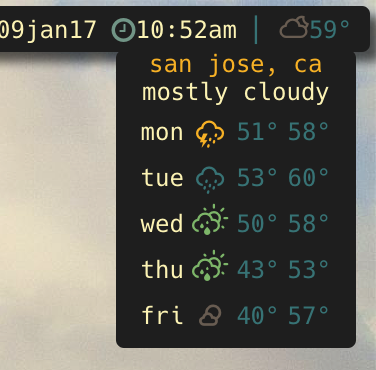
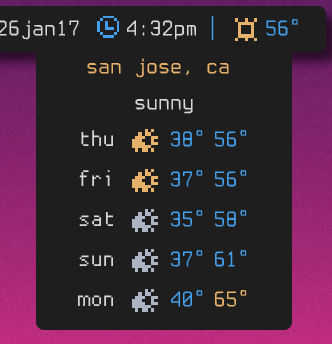
switch back to doom theme

diff --git a/colors.css b/colors.css
@@ -1,28 +1,28 @@
 span {
-    color: #83a598;
+    color: #51afef;
     font: 12px TerminusTTF;
     text-transform: lowercase;
     -webkit-font-smoothing: antialiased;
 }
 .white {
-    color: #fdf4c1;
+    color: #dfdfdf;
 }
 .green {
-    color: #8ec07c;
+    color: #98be65;
 }
 .greenbg {
-    background: #8ec07c;
-    color: #282828;
+    background: #98be65;
+    color: #282c34;
 }
 .yellow {
-    color: #fabd2f;,w
+    color: #ecbe7b;
 }
 .yellowbg {
-    background: #fabd2f;
-    color: #282828;
+    background: #ecbe7b;
+    color: #282c34;
 }
 .red {
-    color: #fb4934;
+    color: #ff6c6b;
 }
 .sicon {
     position: relative;
@@ -39,25 +39,28 @@ span {
     top: 4px;
 }
 .blue {
-    color: #458588;
+    color: #51afef;
 }
 .cyan {
-    color: #8ec07c;
+    color: #46d9ff;
 }
 .cyanbg {
-    background: #8ec07c;
-    color: #282828;
+    background: #46d9ff;
+    color: #282c34;
 }
 .grey {
-    color: #7c6f64;
+    color: #bbc2cf;
 }
 .purple {
-    color: #d3869b;
+    color: #a9a1e1;
 }
 .orange {
-    color: #fe8019;
+    color: #da8548;
 }
 .orangebg {
-    background: #fe8019;
-    color: #282828;
+    background: #da8548;
+    color: #282c34;
+}
+.teal {
+    color: #4db5bd;
 }
